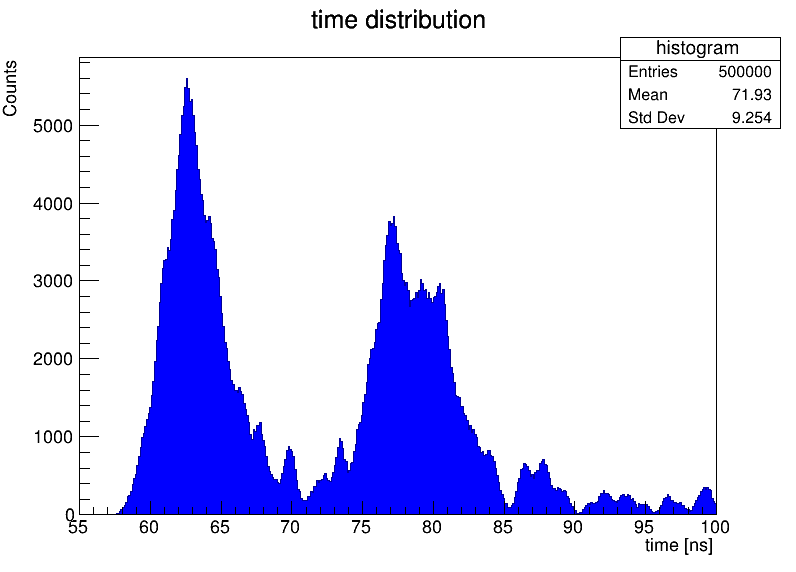
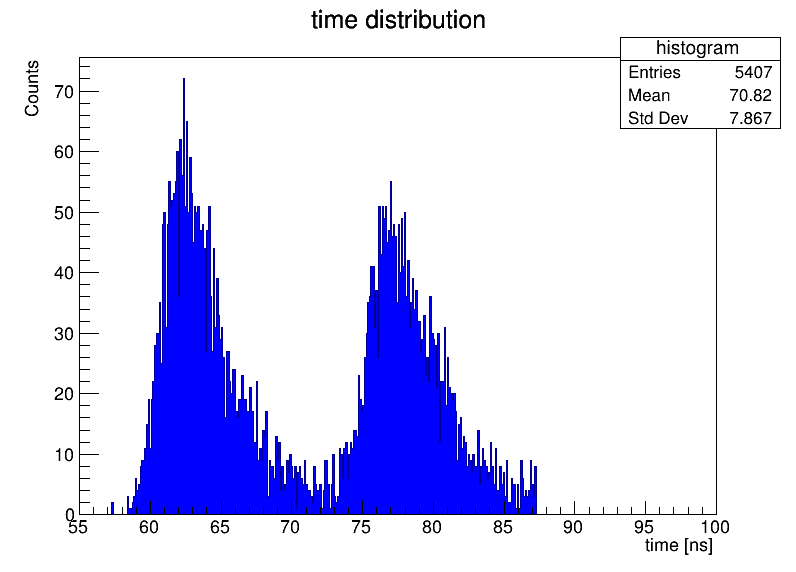
new commit

diff --git a/time_distribution.C b/time_distribution.C
@@ -28,6 +28,16 @@ int main() {
     double value = std::stod(line);
     time.push_back(value);
   }
+  auto min_time = *std::min_element(time.begin(), time.end());
+  double threshold = min_time + 30.0;
+  
+  for (int i = 0; i < time.size(); ++i) {
+    if (time[i] > threshold) {
+      time.erase(time.begin() + i); // Cancella l'elemento dal vector
+      --i; // Decrementa l'indice per compensare la rimozione dell'elemento
+    }
+}
+
   
   // Mescola il vettore time in modo casuale
   std::random_device rd;
@@ -36,7 +46,9 @@ int main() {
   
   TH1F *histogram = new TH1F("histogram", "time distribution", 400, 55, 100);
   histogram->SetFillColor(kBlue); // Imposta il colore di riempimento dell'istogramma a rosso
-  histogram->Fill(time);
+  for (int i = 0; i < time.size(); ++i) {
+    histogram->Fill(time[i]);
+  }
   histogram->SetXTitle("time [ns]"); // Imposta l'etichetta dell'asse x
   histogram->SetYTitle("Counts"); // Imposta l'etichetta dell'asse y
   // Seleziona i primi n eventi dal vettore time (o meno se il vettore ha meno di n elementi)

diff --git a/.#time_distribution.C b/.#time_distribution.C
@@ -1,0 +1,1 @@
+disilves@neutrino-01.novalocal.21672:1702288396
